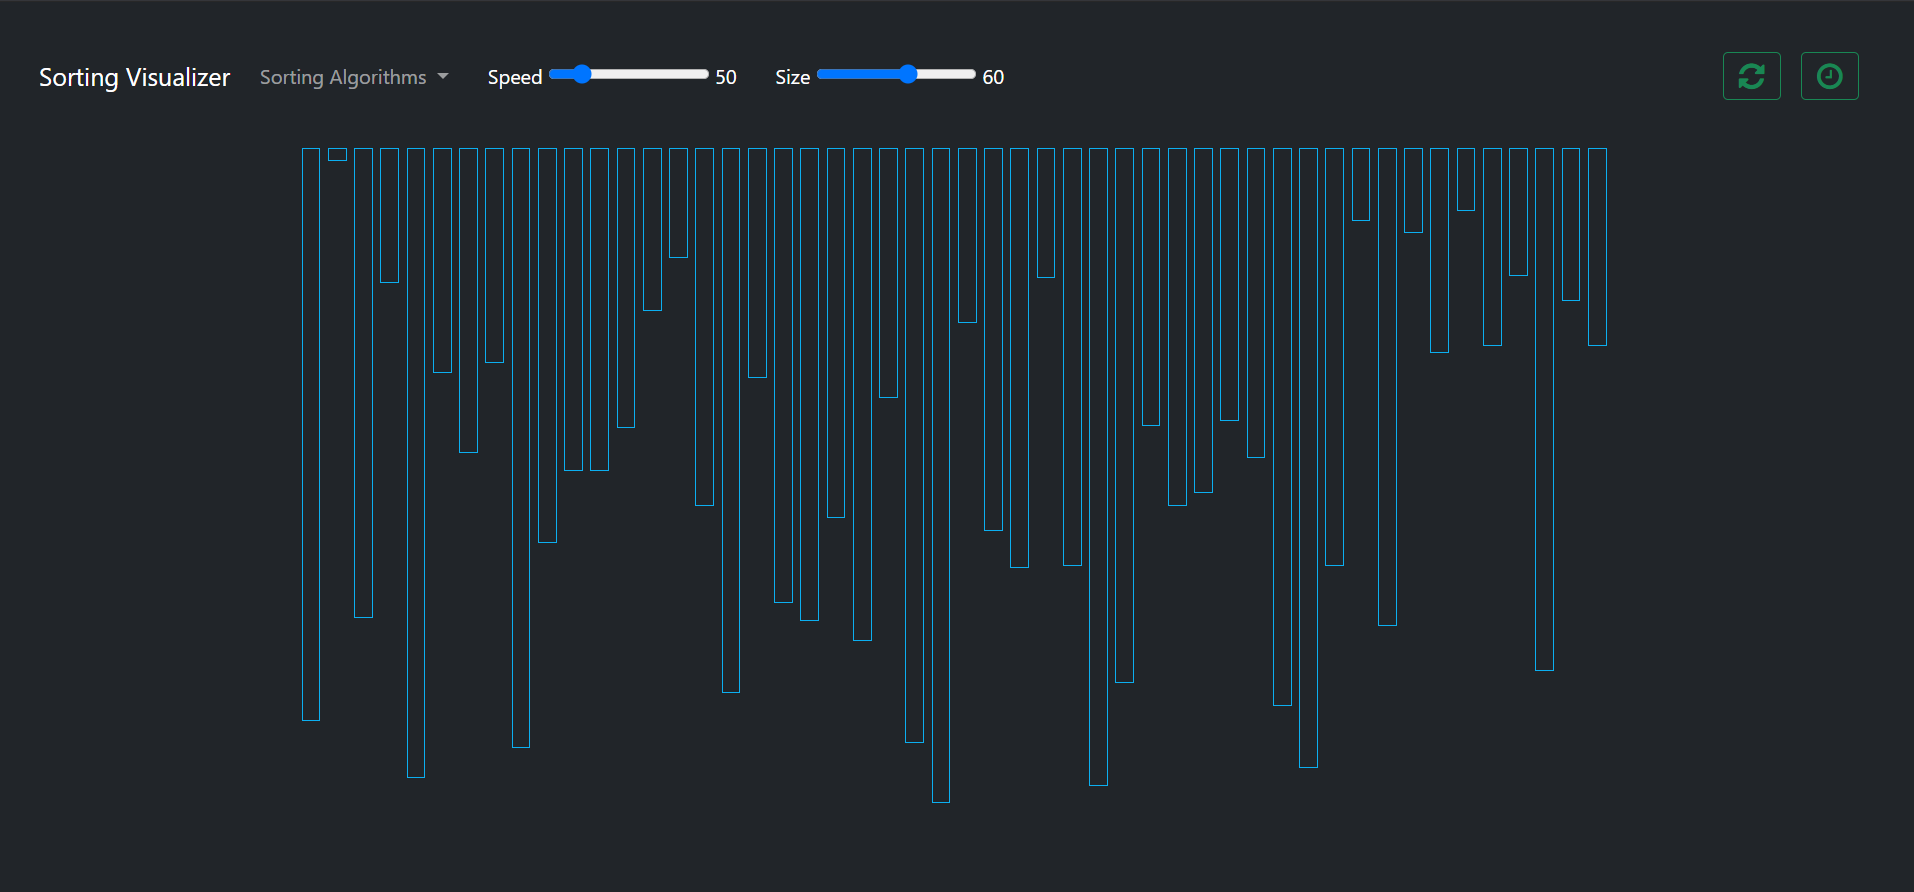
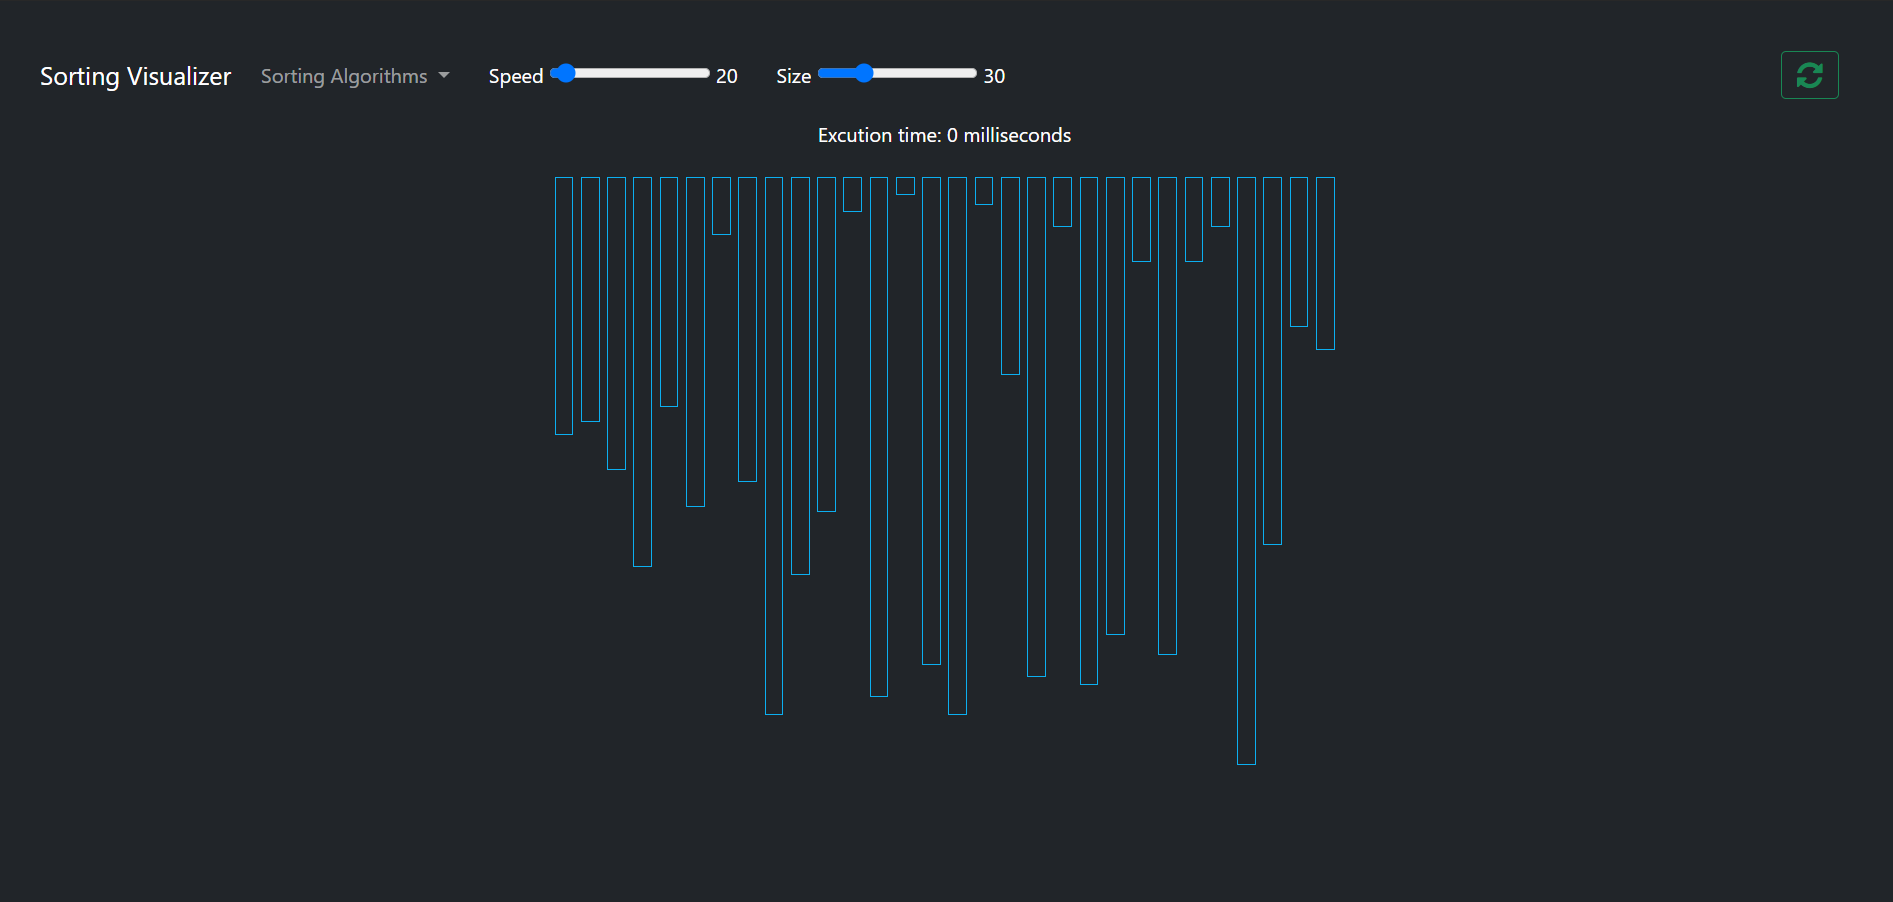
update time measuere time process

diff --git a/js/quick.js b/js/quick.js
@@ -10,27 +10,23 @@ async function partition(arr, left, right) {
     j = right; //right pointer
   arr[Math.floor((right + left) / 2)].style.background = "white";
   await setDelay(delay + 60);
-  totalDelay += delay + 60;
   arr[Math.floor((right + left) / 2)].style.background = "";
 
   while (i <= j) {
     while (parseInt(arr[i].style.height) < parseInt(pivot)) {
       arr[i].style.background = "red";
       await setDelay(delay);
-      totalDelay += delay;
       arr[i].style.background = "";
       i++;
     }
     while (parseInt(arr[j].style.height) > parseInt(pivot)) {
       arr[j].style.background = "rgb(12, 175, 240)";
       await setDelay(delay);
-      totalDelay += delay;
       arr[j].style.background = "";
       j--;
     }
     if (i <= j) {
       await setDelay(delay);
-      totalDelay += delay;
       swap(arr, i, j); //sawpping two elements
       i++;
       j--;
@@ -46,13 +42,11 @@ async function quickSort(arr, left, right, length) {
     if (left < index - 1) {
       //more elements on the left side of the pivot
       await setDelay(delay);
-      totalDelay += delay;
       await quickSort(arr, left, index - 1, length);
     }
     if (index < right) {
       //more elements on the right side of the pivot
       await setDelay(delay);
-      totalDelay += delay;
       await quickSort(arr, index, right, length);
     }
   }
@@ -64,15 +58,12 @@ quickSortbtn.addEventListener("click", async function () {
   const arr = document.querySelectorAll(".bar");
   let length = arr.length;
   disabledInputs();
-  totalDelay = 0;
-  var start = window.performance.now();
+  startFun();
   await quickSort(arr, 0, length - 1, length);
-  var end = window.performance.now();
-  writeTime(end, start);
+  stop();
   for (let i = 0; i < length; i++) {
     arr[i].style.background = "red";
     await setDelay(50);
-    totalDelay += 50;
     arr[i].style.background = "green";
   }
   enabledInputs();

diff --git a/js/bubble.js b/js/bubble.js
@@ -1,21 +1,17 @@
 // Reference: https://www.geeksforgeeks.org/bubble-sort-algorithms-by-using-javascript/
 // Creating the bblSort function
 async function bblSort(arr, length) {
-  let x = length;
   for (var i = 0; i < length; i++) {
     // Last i elements are already in place
     await setDelay(delay);
-    totalDelay += delay;
     for (var j = 0; j < length - i - 1; j++) {
       // Checking if the item at present iteration
       // is greater than the next iteration
       await setDelay(delay);
-      totalDelay += delay;
       if (parseInt(arr[j].style.height) > parseInt(arr[j + 1].style.height)) {
         // If the condition is true then swap them
         var temp = arr[j].style.height;
         arr[j].style.height = arr[j + 1].style.height;
-
         arr[j + 1].style.height = temp;
       }
     }
@@ -28,15 +24,12 @@ bblSortbtn.addEventListener("click", async function () {
   const arr = document.querySelectorAll(".bar");
   let length = arr.length;
   disabledInputs();
-  totalDelay = 0;
-  var start = window.performance.now();
+  startFun();
   await bblSort(arr, length);
-  var end = window.performance.now();
-  writeTime(end, start);
+  stop();
   for (let i = 0; i < length; i++) {
     arr[i].style.background = "red";
     await setDelay(50);
-    totalDelay += 50;
     arr[i].style.background = "green";
   }
   enabledInputs();

diff --git a/js/merge.js b/js/merge.js
@@ -36,7 +36,6 @@ async function merge(arr, l, m, r) {
 
   while (i < n1 && j < n2) {
     await setDelay(delay);
-    totalDelay += delay;
     if (parseInt(L[i]) <= parseInt(R[j])) {
       arr[k].style.height = L[i];
 
@@ -52,7 +51,6 @@ async function merge(arr, l, m, r) {
   // L[], if there are any
   while (i < n1) {
     await setDelay(delay);
-    totalDelay += delay;
     arr[k].style.height = L[i];
     i++;
     k++;
@@ -62,7 +60,6 @@ async function merge(arr, l, m, r) {
   // R[], if there are any
   while (j < n2) {
     await setDelay(delay);
-    totalDelay += delay;
     arr[k].style.height = R[j];
     j++;
     k++;
@@ -87,15 +84,12 @@ mergeBtn.addEventListener("click", async function () {
   const arr = document.querySelectorAll(".bar");
   let length = arr.length;
   disabledInputs();
-  var start = performance.now();
-  totalDelay = 0;
+  startFun();
   await mergeSort(arr, 0, length - 1);
-  var end = performance.now();
-  writeTime(end, start);
+  stop();
   for (let i = 0; i < length; i++) {
     arr[i].style.background = "red";
     await setDelay(50);
-    totalDelay += delay;
     arr[i].style.background = "green";
   }
   enabledInputs();

diff --git a/js/insertion.js b/js/insertion.js
@@ -6,13 +6,11 @@ async function insertionSort() {
     inputArr[i].style.background = "rgb(208, 230, 9)";
     let j = i - 1;
     await setDelay(delay);
-    totalDelay += delay;
     while (j >= 0 && parseInt(inputArr[j].style.height) > parseInt(key)) {
       inputArr[j].style.background = "red";
       inputArr[j + 1].style.height = inputArr[j].style.height;
       j = j - 1;
       await setDelay(delay);
-      totalDelay += delay;
       for (let k = i; k >= 0; k--) {
         inputArr[k].style.background = "green";
       }
@@ -24,15 +22,12 @@ async function insertionSort() {
 const inSortbtn = document.querySelector("#insertion_sort");
 inSortbtn.addEventListener("click", async function () {
   disabledInputs();
-  totalDelay = 0;
-  var start = window.performance.now();
+  startFun();
   await insertionSort();
-  var end = window.performance.now();
-  writeTime(end, start);
+  stop();
   for (let i = 0; i < length; i++) {
     inputArr[i].style.background = "red";
     await setDelay(50);
-    totalDelay += 50;
     inputArr[i].style.background = "green";
   }
   enabledInputs();

diff --git a/js/main_sorting.js b/js/main_sorting.js
@@ -44,26 +44,14 @@ new_arrayBtn.addEventListener("click", async function () {
 });
 
 function disabledInputs() {
-  document.querySelector("#time_sorting").disabled = true;
+  // document.querySelector("#time_sorting").disabled = true;
   document.querySelector("#navbarDropdown").disabled = true;
   document.querySelector("#speed_sorting").disabled = true;
   document.querySelector("#array_size").disabled = true;
 }
 function enabledInputs() {
-  document.querySelector("#time_sorting").disabled = false;
+  // document.querySelector("#time_sorting").disabled = false;
   document.querySelector("#speed_sorting").disabled = false;
   document.querySelector("#array_size").disabled = false;
   document.querySelector("#navbarDropdown").disabled = false;
 }
-
-function writeTime(end, start) {
-  console.log(`start ${start}`);
-  console.log(`end ${end}`);
-  console.log(`totalDelay ${totalDelay}`);
-  let time = end - start - totalDelay;
-  console.log(`time : ${time}`);
-  document.querySelector(
-    "#model_text"
-  ).innerHTML = `Execution time: ${time} ms`;
-}
-let totalDelay = 0;

diff --git a/index.html b/index.html
@@ -67,13 +67,15 @@
               <i style="font-size:24px" class="fa">&#xf021;</i>
             </button>  
             <!-- Button trigger modal -->
-            <button id="time_sorting" type="button" class="btn btn-outline-success m-2 d-flex" data-bs-toggle="modal" data-bs-target="#staticBackdrop">
+            <!-- <button id="time_sorting" type="button" class="btn btn-outline-success m-2 d-flex" data-bs-toggle="modal" data-bs-target="#staticBackdrop">
               <i style='font-size:24px' class='fa'>&#xf017;</i>
-            </button>
+            </button> -->
           </div>
         </div>
-      </nav>
-    
+    </nav>
+    <div style="text-align:center;" id="timer">
+      Excution time: 0 milliseconds
+    </div>
     <div id="bars" class="flex-container"></div>
     
 
@@ -108,5 +110,6 @@
     <script src="js/merge.js"></script>
     <script src="js/bubble.js"></script>
     <script src="js/quick.js"></script>
+    <script src="js/stop_watch.js"></script>
 </body>
 </html>

diff --git a/js/stop_watch.js b/js/stop_watch.js
@@ -1,0 +1,17 @@
+var startTime, interval;
+
+function startFun() {
+  document.getElementById("timer").innerHTML = "Excution time: 0 milliseconds";
+  startTime = Date.now();
+  interval = setInterval(function () {
+    updateDisplay(Date.now() - startTime);
+  });
+}
+
+function stop() {
+  clearInterval(interval);
+}
+
+function updateDisplay(currentTime) {
+  document.getElementById("timer").innerHTML = currentTime + " milliseconds";
+}

diff --git a/style.css b/style.css
@@ -11,12 +11,12 @@ body {
     width: 100%;
     height: 550px;
     justify-content: center;
-    transition: 1s all ease;
+    /* transition: 1s all ease; */
 }
 
 .vertical_line {
     border: 1px solid rgb(12, 175, 240);
     width:15px;
-    transition: 0.1s all ease;
+    /* transition: 0.1s all ease; */
     margin: 3px;
   }

diff --git a/README.md b/README.md
@@ -15,4 +15,3 @@
 
 <img src="imgs/1.PNG"> <br/>
 <img src="imgs/2.PNG"> <br/>
-<img src="imgs/3.PNG"> <br/>
